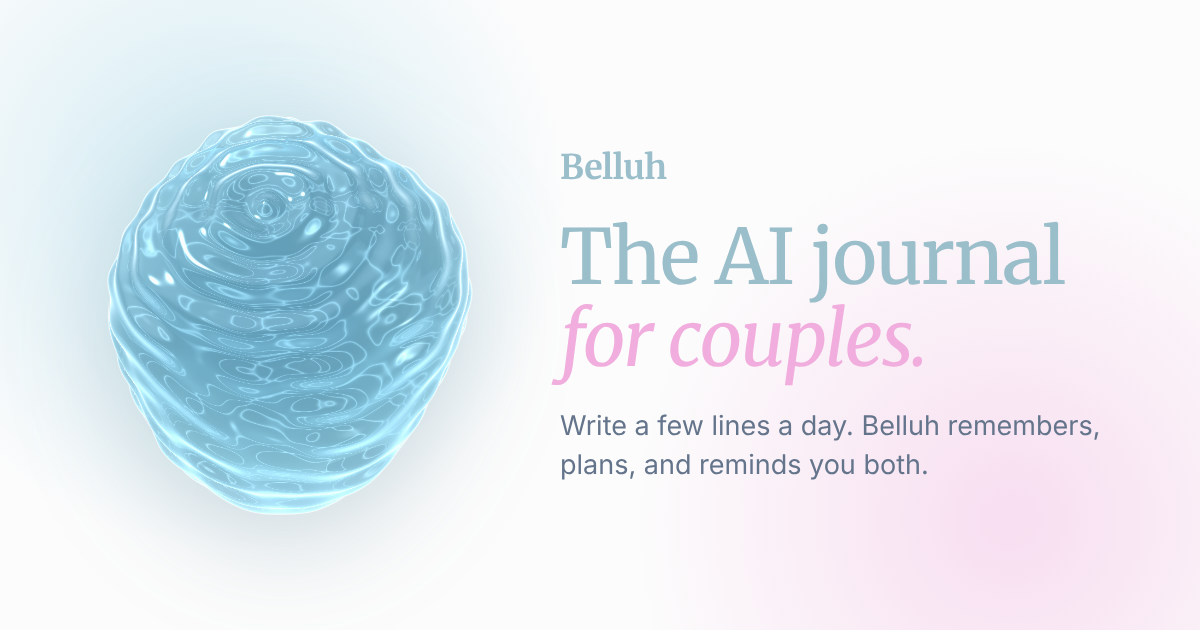
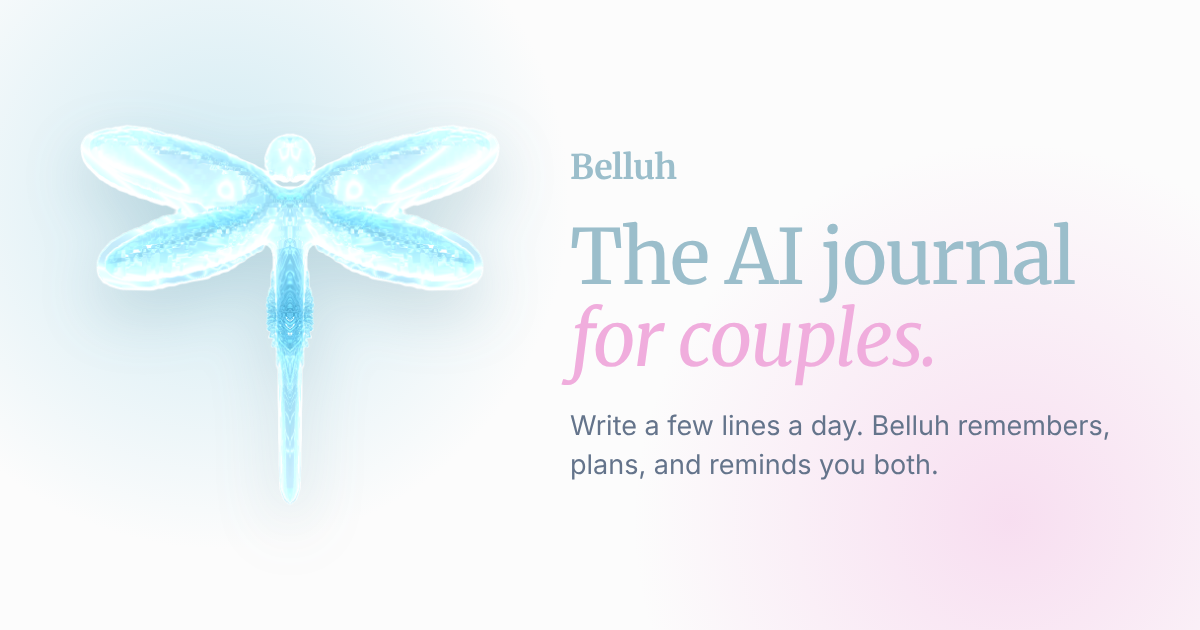
Dragonfly in the link preview (#38)
The 1200x630 share image used by iMessage, Slack and social apps now shows
the water dragonfly beside "The AI journal for couples." Cache-busted (v=3).

Claude-Session: https://claude.ai/code/session_01PrakwtbgSz8v6YiGNDkMdt

diff --git a/index.html b/index.html
@@ -10,14 +10,14 @@
     <meta property="og:title" content="Belluh — the AI journal for couples">
     <meta property="og:description" content="Belluh remembers what matters, plans the date, reminds you both, and every Sunday tells you one thing to try together.">
     <meta property="og:url" content="https://belluh.com/">
-    <meta property="og:image" content="https://belluh.com/og.png?v=2">
-    <meta property="og:image:alt" content="Belluh's living water beside the words: The AI journal for couples.">
+    <meta property="og:image" content="https://belluh.com/og.png?v=3">
+    <meta property="og:image:alt" content="A dragonfly made of Belluh's water beside the words: The AI journal for couples.">
     <meta property="og:image:width" content="1200">
     <meta property="og:image:height" content="630">
     <meta name="twitter:card" content="summary_large_image">
     <meta name="twitter:title" content="Belluh — the AI journal for couples">
     <meta name="twitter:description" content="Belluh remembers what matters, plans the date, reminds you both, and every Sunday tells you one thing to try together.">
-    <meta name="twitter:image" content="https://belluh.com/og.png?v=2">
+    <meta name="twitter:image" content="https://belluh.com/og.png?v=3">
     <link rel="icon" href="/favicon.ico?v=5" sizes="48x48" />
     <link rel="icon" type="image/png" sizes="96x96" href="/favicon-96x96.png?v=5" />
     <link rel="icon" type="image/png" sizes="32x32" href="/favicon-32x32.png?v=5" />
